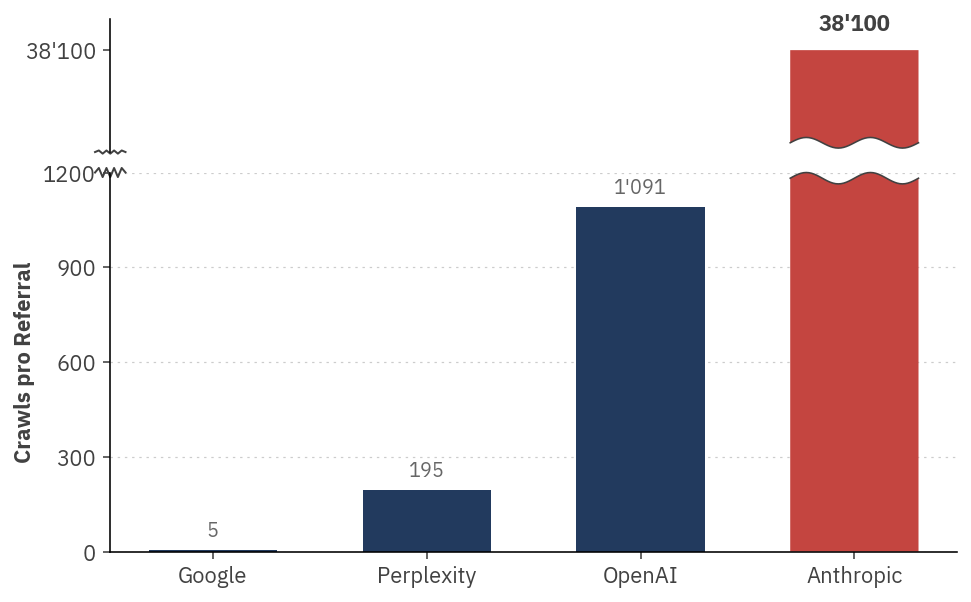
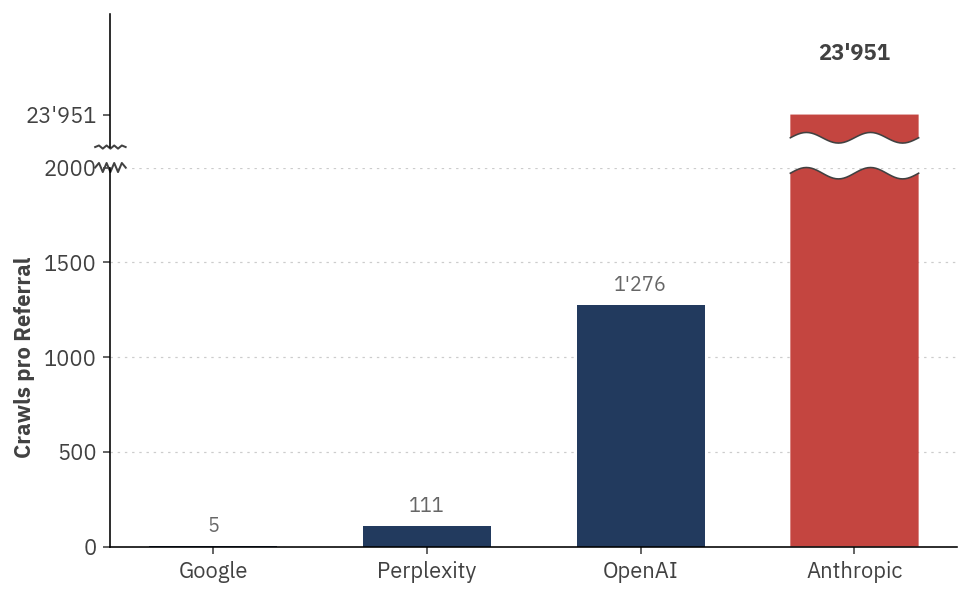
Zero-Click: Update auf Q1 2026 Cloudflare-Daten
Crawl-to-Refer-Ratios aktualisiert (Anthropic 23'951:1, OpenAI 1'276:1,
Perplexity 111:1), Trendlinie ergänzt, Branchen-Breakdown und zwei neue
Quellen (SEOmator Q1 2026, Cloudflare Industry Report) hinzugefügt.

diff --git a/src/content/perspektiven/zero-click.md b/src/content/perspektiven/zero-click.md
@@ -1,13 +1,13 @@
 ---
 title: "99 Prozent Zero-Click"
-description: "38'100 Crawls pro Referral bei Anthropic. Was diese Zahl über das zweite Unbundling verrät — und was Publisher jetzt tun können."
+description: "24'000 Crawls pro Referral bei Anthropic — und das ist schon eine Verbesserung. Was die Cloudflare-Zahlen über das zweite Unbundling verraten."
 date: 2026-04-16
 category: "KI & AdTech"
 image: "/images/perspektiven/zero-click-crawl-to-refer.png"
 draft: false
 ---
 
-38'100 mal crawlt ein Anthropic-Bot eine Website für einen Besucher, der an den Publisher zurückgeschickt wird. Stand Juli 2025, Cloudflare-Messung. Wenn ich eine Zahl nennen müsste, die erklärt, was gerade passiert, wäre es diese.
+Knapp 24'000 mal crawlt ein Anthropic-Bot eine Website für einen Besucher, der an den Publisher zurückgeschickt wird. Durchschnitt erstes Quartal 2026, Cloudflare Radar. Vor einem Jahr waren es 286'000 — die Richtung stimmt, die Grössenordnung nicht. Wenn ich eine Zahl nennen müsste, die erklärt, was gerade passiert, wäre es diese.
 
 Auf der Nutzerseite zeigt sich dieselbe Bewegung. Wer ChatGPT eine Frage stellt, klickt fast nie weiter. Die Antwort ist da, der Klick erübrigt sich. Publisher, deren Geschäft auf Traffic gebaut ist, verlieren damit die Grundlage ihrer Erlösstruktur. Nicht im Drei-Jahres-Ausblick, sondern im laufenden Quartal.
 
@@ -25,16 +25,16 @@ Diese Zahlen stammen aus US-Erhebungen. Für Europa und die Schweiz fehlen vergl
 
 ## Was Cloudflare sieht
 
-Cloudflare schützt und beschleunigt rund 20% aller Websites weltweit und sieht deshalb sehr genau, wer crawlt — und wer im Gegenzug Traffic zurückschickt. Das Verhältnis ist die ehrlichste Kennzahl, die der Markt gerade hat. Stand Juli 2025:
+Cloudflare schützt und beschleunigt rund 20% aller Websites weltweit und sieht deshalb sehr genau, wer crawlt — und wer im Gegenzug Traffic zurückschickt. Das Verhältnis ist die ehrlichste Kennzahl, die der Markt gerade hat. Durchschnitt Q1 2026:
 
 - **Google:** 5 gecrawlte Seiten pro Referral
-- **Perplexity:** 195 zu 1
-- **OpenAI:** 1'091 zu 1
-- **Anthropic:** 38'100 zu 1
+- **Perplexity:** 111 zu 1
+- **OpenAI:** 1'276 zu 1
+- **Anthropic:** 23'951 zu 1
 
-![Crawl-zu-Referral-Verhältnis pro Plattform, Stand Juli 2025. Google, Perplexity und OpenAI auf der unteren Skala; Anthropic bricht die Y-Achse mit 38'100 zu 1.](/images/perspektiven/zero-click-crawl-to-refer.png)
+![Crawl-zu-Referral-Verhältnis pro Plattform, Durchschnitt Q1 2026. Google, Perplexity und OpenAI auf der unteren Skala; Anthropic bricht die Y-Achse mit 23'951 zu 1.](/images/perspektiven/zero-click-crawl-to-refer.png)
 
-Die Verhältnisse bewegen sich, aber nicht alle in dieselbe Richtung. Anthropic ist innerhalb von sechs Monaten um 87% gefallen — von 286'000 zu 1 im Januar auf 38'100 im Juli. Auslöser war Claudes Web-Suche mit klickbaren Quellen, seit Mai für alle Nutzer. Seither fliessen ein paar Klicks zurück. Trotzdem bleibt 38'100 zu 1 das Ende einer Verbesserung, nicht der Anfang einer Lösung. Perplexity geht in die andere Richtung. Und Google crawlt viel, generiert über die klassische Indexierung aber weiterhin den Grossteil seines Referral-Traffics. Genau dieses Gleichgewicht verschiebt sich.
+Die Verhältnisse bewegen sich — bei Anthropic in die richtige Richtung. Von 286'000 zu 1 im Januar 2025 über 38'100 im Juli auf knapp 12'000 im März 2026. Auslöser war Claudes Web-Suche mit klickbaren Quellen, seit Mai 2025 für alle Nutzer. Die Verbesserung um 96% in 14 Monaten klingt beeindruckend — bis man sie gegen Google hält: 12'000 zu 1 versus 5 zu 1. Das ist das Ende einer Verbesserung, nicht der Anfang einer Lösung. Perplexity verbessert sich ebenfalls stetig (von 195 auf 111). Und die Branchenunterschiede sind erheblich: Für Verlage und News-Sites misst Cloudflare bei Anthropic 2'500 zu 1 — deutlich besser als im Gesamtdurchschnitt. Google crawlt viel, generiert über die klassische Indexierung aber weiterhin den Grossteil seines Referral-Traffics. Genau dieses Gleichgewicht verschiebt sich.
 
 ## Was sich strukturell verschiebt
 
@@ -70,3 +70,5 @@ Das zweite Unbundling ist keine Prognose. Es passiert.
 4. Cloudflare — [Radar AI Insights: Crawl-to-Refer Ratios, Zero-Click-Daten](https://blog.cloudflare.com/crawlers-click-ai-bots-training/) (2025)
 5. First Page Sage — [Google vs ChatGPT Market Share Report](https://firstpagesage.com/seo-blog/google-vs-chatgpt-market-share-report/) (Q4 2025)
 6. Fractl / Search Engine Land — [Gen Z Search Behavior Report](https://www.frac.tl/ai-vs-seo-how-generative-search-is-reshaping-discovery-content-strategy-and-consumer-trust-in-2025/) (2025)
+7. SEOmator — [GEO Data Report 2026: Crawl-to-Refer-Ratios Q1 2026](https://seomator.com/blog/crawl-to-refer-ratio-ai-crawlers-llm-bots) (basierend auf Cloudflare Radar)
+8. Cloudflare — [A deeper look at AI crawlers: breaking down traffic by purpose and industry](https://blog.cloudflare.com/ai-crawler-traffic-by-purpose-and-industry/) (August 2025)
